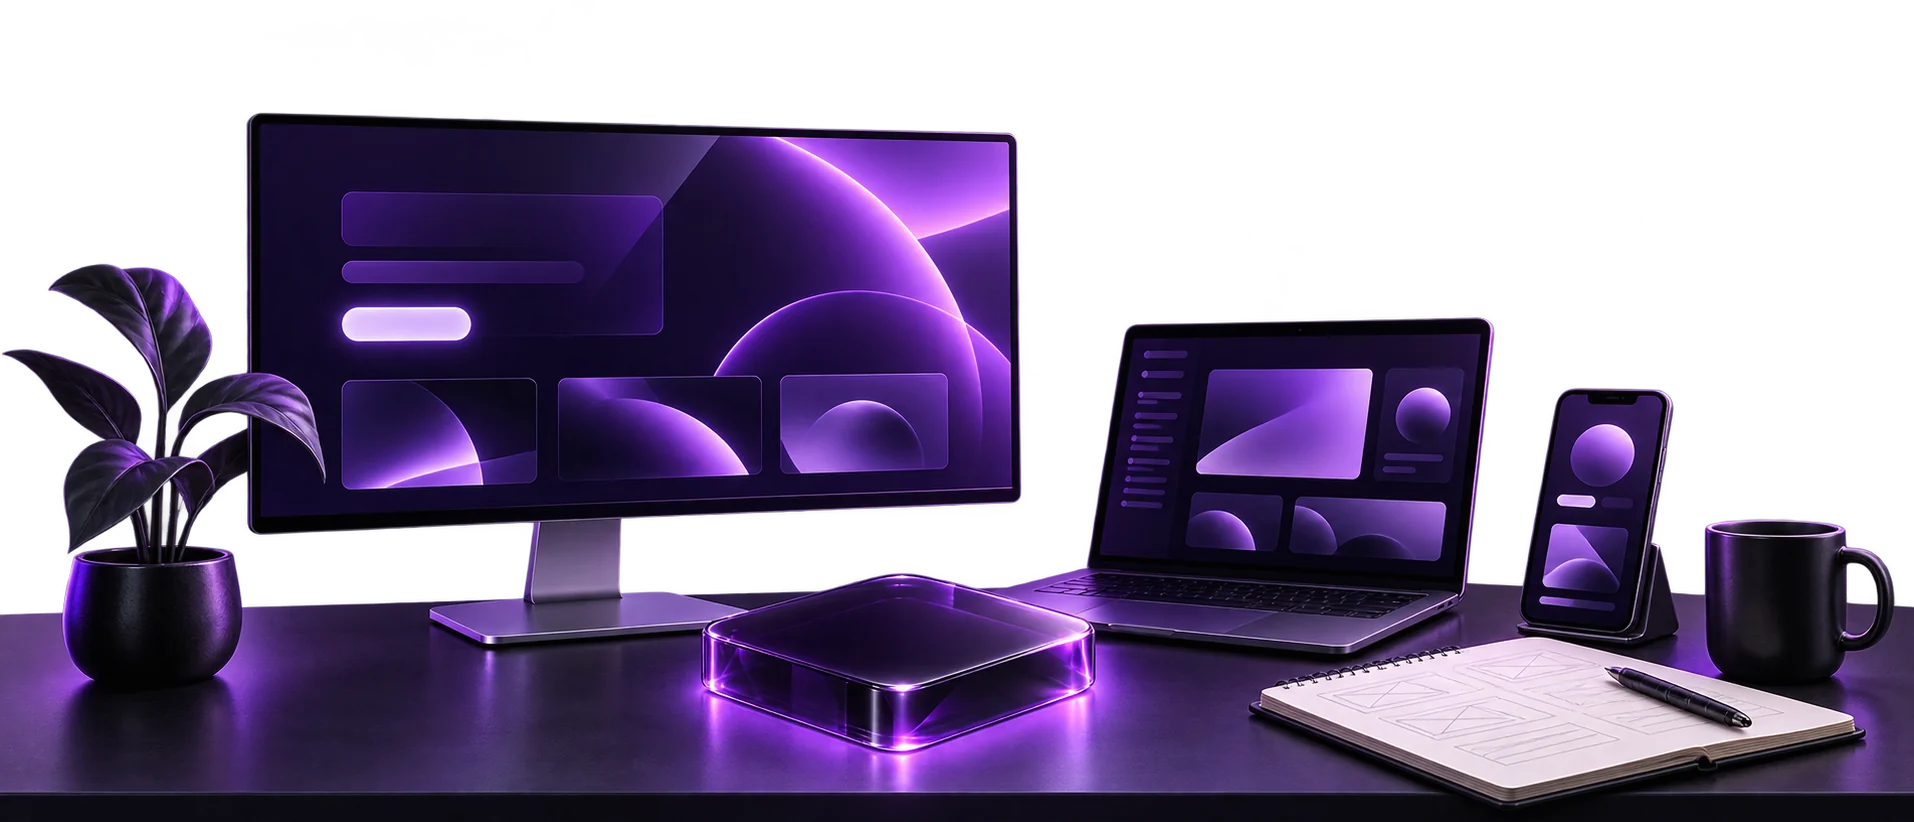
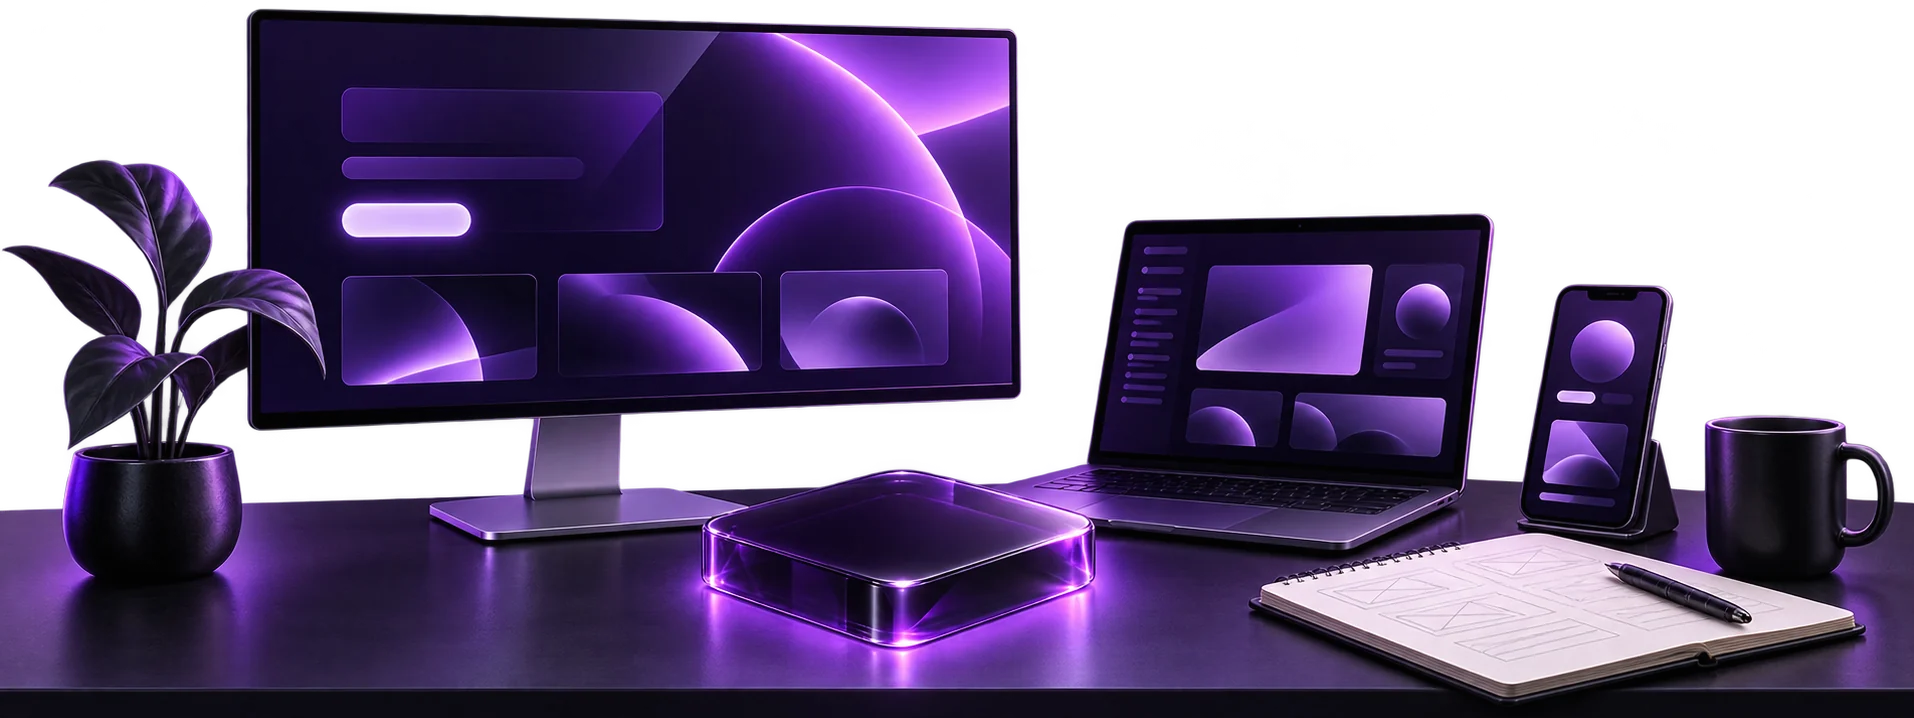
Hero: full-width uncropped scene under the CTAs, subtle code-shimmer hover
- Desk image trimmed of its empty top band and shown full width at true
  proportions, starting below the buttons (no overlap, no side crop or fades)
- Hover now overlays faint lilac code glyphs instead of replacing the image
- Remove the halftone dot grid above the world map; headline scales with height

diff --git a/src/scripts/ascii-scene.ts b/src/scripts/ascii-scene.ts
@@ -11,7 +11,8 @@ interface Cell {
   lum: number;
   alpha: number;
   color: string;
-  t: number; // 1 = ascii, 0 = image
+  t: number; // intro: 1 = ascii, 0 = image
+  hv: number; // hover: faint code glyphs over the image
   hold: number; // intro: seconds to stay ascii before dissolving
   ch: string;
 }
@@ -48,6 +49,8 @@ export async function createAsciiScene(canvas: HTMLCanvasElement, src: string, o
   let started = false;
   let introDone = false;
   let pointer: { x: number; y: number } | null = null;
+  // "cover" fit, anchored to the bottom so the desk always sits on the fold
+  const fit = { x: 0, y: 0, w: 0, h: 0 };
 
   const pick = (lum: number) => {
     // Bright cells read as dense code glyphs, dim ones as the luminance ramp
@@ -71,7 +74,12 @@ export async function createAsciiScene(canvas: HTMLCanvasElement, src: string, o
     sample.width = cols;
     sample.height = rows;
     const sctx = sample.getContext('2d', { willReadFrequently: true })!;
-    sctx.drawImage(img, 0, 0, cols, rows);
+    const scale = Math.max(w / img.naturalWidth, h / img.naturalHeight);
+    fit.w = img.naturalWidth * scale;
+    fit.h = img.naturalHeight * scale;
+    fit.x = (w - fit.w) / 2;
+    fit.y = h - fit.h;
+    sctx.drawImage(img, (fit.x * cols) / w, (fit.y * rows) / h, (fit.w * cols) / w, (fit.h * rows) / h);
     const data = sctx.getImageData(0, 0, cols, rows).data;
 
     // Keep each cell's progress when the grid is unchanged (resizes fire mid-intro)
@@ -97,6 +105,7 @@ export async function createAsciiScene(canvas: HTMLCanvasElement, src: string, o
           alpha: a,
           color: `rgb(${tr},${tg},${tb})`,
           t: old ? old.t : introDone ? 0 : 1,
+          hv: 0,
           // dissolve from the bottom up, with a little noise
           hold: old ? old.hold : introDone ? 0 : 0.25 + (1 - r / rows) * 1.1 + Math.random() * 0.45,
           ch: pick(lum),
@@ -111,13 +120,23 @@ export async function createAsciiScene(canvas: HTMLCanvasElement, src: string, o
   const draw = () => {
     ctx.clearRect(0, 0, w, h);
     ctx.globalAlpha = 1;
-    ctx.drawImage(img, 0, 0, w, h);
+    ctx.drawImage(img, fit.x, fit.y, fit.w, fit.h);
     for (const c of cells) {
-      if (c.t < 0.5) continue;
-      ctx.clearRect(c.x, c.y, cellW, cellH);
-      ctx.globalAlpha = c.alpha * (0.35 + c.lum * 0.65) * Math.min(1, c.t * 1.4);
-      ctx.fillStyle = c.color;
-      ctx.fillText(c.ch, c.x, c.y);
+      if (c.t >= 0.5) {
+        // intro: the cell is still code
+        ctx.clearRect(c.x, c.y, cellW, cellH);
+        ctx.globalAlpha = c.alpha * (0.35 + c.lum * 0.65) * Math.min(1, c.t * 1.4);
+        ctx.fillStyle = c.color;
+        ctx.fillText(c.ch, c.x, c.y);
+      } else if (c.hv > 0.04) {
+        // hover: code shimmering through the glass, image stays visible
+        ctx.globalAlpha = c.hv * 0.3;
+        ctx.fillStyle = '#0c0118';
+        ctx.fillRect(c.x, c.y, cellW, cellH);
+        ctx.globalAlpha = c.hv * (0.35 + c.lum * 0.4);
+        ctx.fillStyle = '#ead9ff';
+        ctx.fillText(c.ch, c.x, c.y);
+      }
     }
     ctx.globalAlpha = 1;
   };
@@ -134,17 +153,21 @@ export async function createAsciiScene(canvas: HTMLCanvasElement, src: string, o
         c.t = Math.max(0, c.t - dt * 1.8);
         active = true;
       }
+      if (c.hv > 0) {
+        c.hv = Math.max(0, c.hv - dt * 1.6);
+        active = true;
+      }
       if (pointer) {
         const dx = c.x + cellW / 2 - pointer.x;
         const dy = c.y + cellH / 2 - pointer.y;
         const d = Math.sqrt(dx * dx + dy * dy);
         if (d < lens) {
-          const v = 1 - d / lens;
-          if (v > c.t) c.t = Math.min(1, v * 1.6);
+          const v = Math.pow(1 - d / lens, 1.6);
+          if (v > c.hv) c.hv = v;
           active = true;
         }
       }
-      if (c.t >= 0.5 && Math.random() < 0.12) c.ch = pick(c.lum);
+      if ((c.t >= 0.5 || c.hv > 0.04) && Math.random() < 0.15) c.ch = pick(c.lum);
     }
     pointer = null;
     if (!active && started) introDone = true;

diff --git a/src/styles/global.css b/src/styles/global.css
@@ -258,7 +258,7 @@ body {
 /* ---------- hero ---------- */
 .hero {
   position: relative;
-  padding: clamp(7rem, 10vw, 8.5rem) 0 2.5rem;
+  padding: 0 0 2.5rem;
   overflow: hidden;
   isolation: isolate;
 }
@@ -284,7 +284,7 @@ body {
   pointer-events: none;
   will-change: transform;
 }
-.hero__title { font-size: clamp(2.6rem, 6.2vw, 7.5rem); max-width: none; }
+.hero__title { font-size: clamp(2.4rem, min(6.2vw, 8.6svh), 7.5rem); max-width: none; }
 .serif {
   font-family: "Instrument Serif", ui-serif, Georgia, serif;
   font-style: italic;
@@ -292,30 +292,12 @@ body {
   letter-spacing: -0.02em;
 }
 
-/* halftone dot field (+ a brighter copy revealed around the pointer) */
-.hero__dots {
-  position: absolute;
-  inset: 0;
-  z-index: -2;
-  pointer-events: none;
-  background-image: radial-gradient(circle, rgb(255 255 255 / 0.11) 0.9px, transparent 1.3px);
-  background-size: 7px 7px;
-  mask-image: radial-gradient(ellipse 80% 70% at 50% 40%, #000 30%, transparent 85%);
-}
-.hero__dots--lit {
-  background-image: radial-gradient(circle, rgb(192 132 252 / 0.55) 1px, transparent 1.5px);
-  mask-image: radial-gradient(circle 220px at var(--mx, 50%) var(--my, -30%), #000 0%, transparent 100%);
-  opacity: 0;
-  transition: opacity 0.6s;
-}
-.hero:hover .hero__dots--lit { opacity: 1; }
-
 /* ASCII world map scrolling behind everything */
 .hero__map {
   position: absolute;
   left: 0;
   right: 0;
-  top: 34%;
+  top: 30%;
   z-index: -1;
   overflow: hidden;
   pointer-events: none;
@@ -340,19 +322,17 @@ body {
 .hero__line--2 { color: rgb(255 255 255 / 0.55); }
 
 /* the ASCII scene */
-.hero__scene { position: relative; margin: clamp(-2.5rem, -2vw, -0.5rem) auto 0; }
-.hero__scene--wide { width: min(100%, 1400px, 112svh); }
-.hero__scene--object { width: min(78vw, 520px); }
+.hero__fold { padding-top: clamp(6.25rem, 13svh, 8rem); }
+.hero__copy { z-index: 2; }
+/* Full width at the image's true proportions, starting just under the buttons */
+.hero__scene { position: relative; z-index: 1; margin-top: clamp(1.25rem, 3svh, 2.5rem); }
+.hero__art { position: relative; width: min(100%, 1680px); margin-inline: auto; }
 .hero__canvas {
+  position: absolute;
+  inset: 0;
   display: block;
   width: 100%;
-  height: auto;
-  position: relative;
-  mask-image:
-    linear-gradient(90deg, transparent, #000 9%, #000 91%, transparent),
-    linear-gradient(transparent, #000 14%);
-  mask-composite: intersect;
-  -webkit-mask-composite: source-in;
+  height: 100%;
 }
 .hero__glow {
   position: absolute;
@@ -396,7 +376,6 @@ body {
 .hero__stats > div + div { border-left: 1px solid var(--line); }
 @media (max-width: 640px) {
   .hero__stats > div { padding: 0.25rem 0.5rem; }
-  .hero__scene--object { width: 86vw; }
   .code-square { scale: 0.55; transform-origin: center; }
 }
 .js .hero__title,

diff --git a/src/scripts/main.ts b/src/scripts/main.ts
@@ -109,7 +109,7 @@ function runPreloader(): Promise<void> {
 function prepareHeroScene(): Promise<AsciiScene | null> {
   const canvas = $<HTMLCanvasElement>('[data-ascii-canvas]');
   if (!canvas?.dataset.src) return Promise.resolve(null);
-  return createAsciiScene(canvas, canvas.dataset.src, { cell: innerWidth < 640 ? 7 : 9, lens: innerWidth < 640 ? 70 : 130 });
+  return createAsciiScene(canvas, canvas.dataset.src, { cell: innerWidth < 640 ? 7 : 9, lens: innerWidth < 640 ? 60 : 95 });
 }
 
 function heroIntro(scenePromise: Promise<AsciiScene | null>) {
@@ -285,19 +285,15 @@ function marquee() {
 function pointerEffects() {
   if (!finePointer || reduceMotion) return;
 
-  // Hero: a brighter dot field follows the pointer; code squares drift in parallax
+  // Hero: code squares drift in parallax with the pointer
   const hero = $('.hero');
-  const dots = $('[data-dots]');
-  if (hero && dots) {
+  if (hero) {
     const squares = $$('[data-square]', hero).map((el, i) => ({
       xTo: gsap.quickTo(el, 'x', { duration: 1.4, ease: 'power3' }),
       yTo: gsap.quickTo(el, 'y', { duration: 1.4, ease: 'power3' }),
       depth: 18 + (i % 3) * 14,
     }));
     hero.addEventListener('pointermove', (e) => {
-      const r = hero.getBoundingClientRect();
-      dots.style.setProperty('--mx', `${e.clientX - r.left}px`);
-      dots.style.setProperty('--my', `${e.clientY - r.top}px`);
       const px = e.clientX / innerWidth - 0.5;
       const py = e.clientY / innerHeight - 0.5;
       squares.forEach((q) => { q.xTo(px * q.depth); q.yTo(py * q.depth); });
